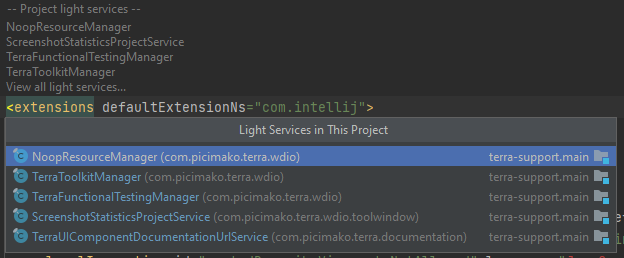
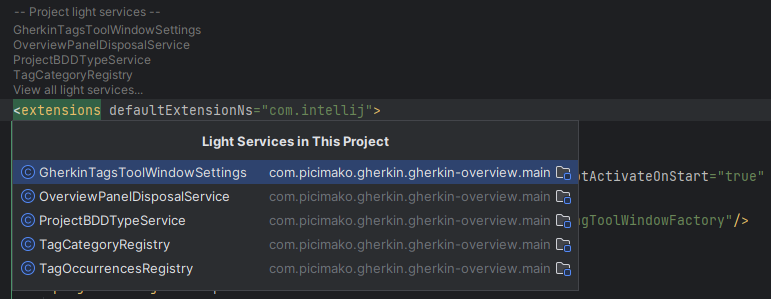
Update View all light services list popup screenshot

diff --git a/docs/services.md b/docs/services.md
@@ -109,7 +109,7 @@ Clicking on it, a popup list of all light service classes is displayed.
 
 In this mode, hints are displayed for light service classes regardless of they are registered in `plugin.xml` or not.
 
-(The examples are from one of my other plugins called *Terra Support*).
+(The examples are from one of my other plugins called *Gherkin Overview*).
 
 ### View all
 
